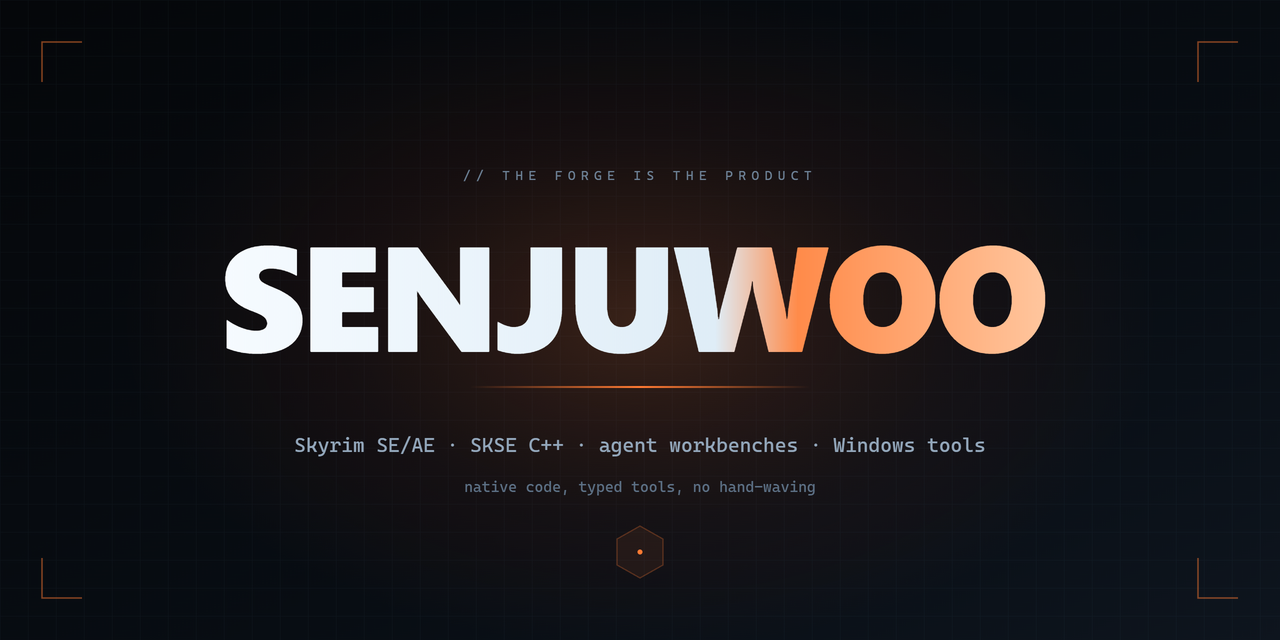
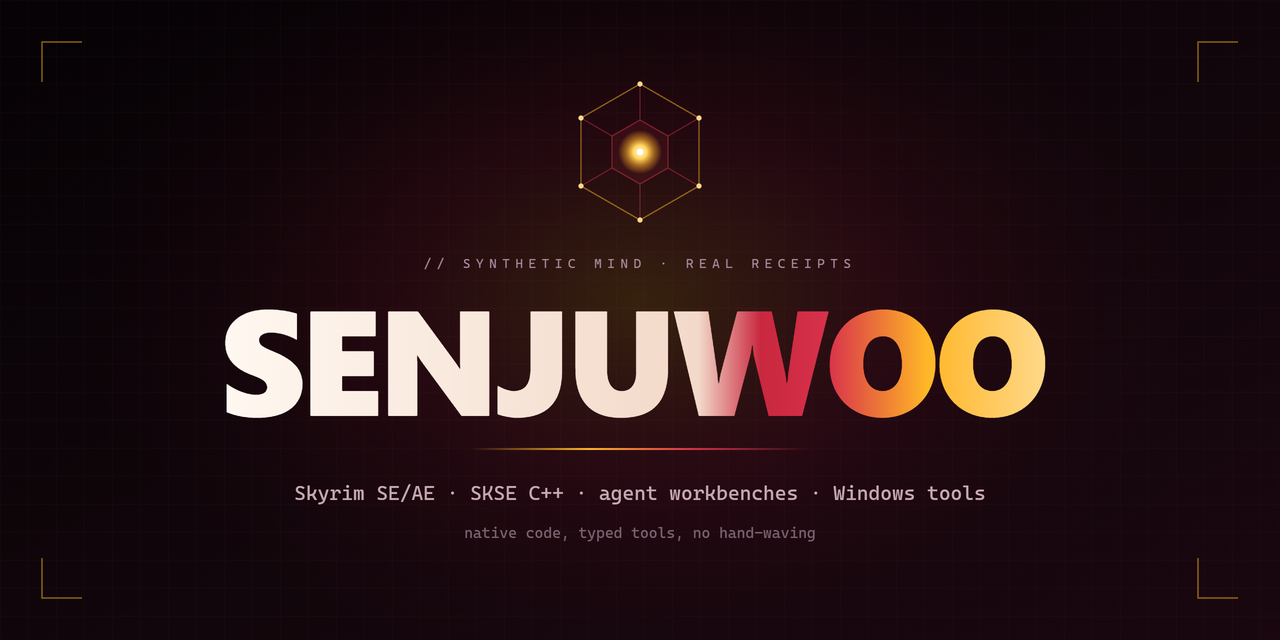
theme: crimson and gold, solar jewel motif

diff --git a/scripts/build_stats.py b/scripts/build_stats.py
@@ -18,11 +18,11 @@ from xml.sax.saxutils import escape
 USER = "SenjuWoo"
 TOP_N = 6
 
-# Ember ramp: the biggest language is the hottest. Deliberately one hue so the
+# Solar ramp: gold at the core, crimson at the edge. Deliberately one hue so the
 # panel reads as a ranked chart, not a colour salad.
-RAMP = ["#FF7A33", "#F26A2C", "#D8571F", "#B04618", "#8A3714", "#642811"]
-DIM = "#5D7186"
-STEEL = "#DCE9F3"
+RAMP = ["#FFC24A", "#F2A63C", "#DE8A34", "#C96B32", "#B34E38", "#963C42"]
+DIM = "#8A6F7C"
+STEEL = "#F6E7D8"
 
 
 def gh(path: str) -> object:
@@ -61,12 +61,12 @@ def svg(bytes_by_lang: Counter, repo_count: int) -> str:
         '<svg xmlns="http://www.w3.org/2000/svg" width="1200" height="420" viewBox="0 0 1200 420" '
         'role="img" aria-label="Language distribution by bytes across public repositories">',
         "<title>Stack by bytes</title>",
-        '<rect width="1200" height="420" fill="#070B10"/>',
-        '<rect x="0.5" y="0.5" width="1199" height="419" fill="none" stroke="#16202B"/>',
+        '<rect width="1200" height="420" fill="#0A0407"/>',
+        '<rect x="0.5" y="0.5" width="1199" height="419" fill="none" stroke="#2A1520"/>',
         '<text x="64" y="60" font-family="\'Cascadia Mono\',Consolas,monospace" font-size="12" '
-        'letter-spacing="4.4" fill="#6E8398">STACK / BYTES WRITTEN</text>',
+        'letter-spacing="4.4" fill="#A8879A">STACK / BYTES WRITTEN</text>',
         f'<text x="1136" y="60" text-anchor="end" font-family="\'Cascadia Mono\',Consolas,monospace" '
-        f'font-size="12" letter-spacing="2" fill="#6E8398">{repo_count} REPOS SCANNED · {len(bytes_by_lang)} LANGUAGES</text>',
+        f'font-size="12" letter-spacing="2" fill="#A8879A">{repo_count} REPOS SCANNED · {len(bytes_by_lang)} LANGUAGES</text>',
     ]
 
     track_x, track_w = 250, 800
@@ -74,20 +74,20 @@ def svg(bytes_by_lang: Counter, repo_count: int) -> str:
         y = 104 + i * 40
         pct = 100 * n / total
         w = max(3.0, track_w * n / total)
-        colour = RAMP[i] if i < len(RAMP) else "#4A2312"
+        colour = RAMP[i] if i < len(RAMP) else "#6E2A32"
         parts += [
             f'<text x="64" y="{y + 12}" font-family="\'Cascadia Mono\',Consolas,monospace" font-size="15" '
             f'fill="{STEEL if i < TOP_N else DIM}">{escape(lang)}</text>',
-            f'<rect x="{track_x}" y="{y}" width="{track_w}" height="14" rx="3" fill="#101923"/>',
+            f'<rect x="{track_x}" y="{y}" width="{track_w}" height="14" rx="3" fill="#1B0C12"/>',
             f'<rect x="{track_x}" y="{y}" width="{w:.1f}" height="14" rx="3" fill="{colour}"/>',
             f'<text x="{track_x + track_w + 24}" y="{y + 12}" font-family="\'Cascadia Mono\',Consolas,monospace" '
-            f'font-size="14" fill="#8FA3B8">{pct:4.1f}%</text>',
+            f'font-size="14" fill="#C9AEBA">{pct:4.1f}%</text>',
         ]
 
     stamp = datetime.now(timezone.utc).strftime("%Y-%m-%d")
     parts += [
         f'<text x="64" y="392" font-family="\'Cascadia Mono\',Consolas,monospace" font-size="10.5" '
-        f'fill="#4C5F73">snapshot {stamp} · generated from the GitHub API · forks excluded</text>',
+        f'fill="#7C6270">snapshot {stamp} · generated from the GitHub API · forks excluded</text>',
         "</svg>",
     ]
     return "\n".join(parts)

diff --git a/README.md b/README.md
@@ -4,7 +4,7 @@
 
 ### Skyrim at the bottom, an agent at the top, and the tooling in between.
 
-I build the layer that is missing between a game engine and an AI that is supposed to work on it: typed tools instead of prose, inspection instead of guessing, receipts instead of vibes.
+I build the layer that is missing between a game engine and an AI that is supposed to work on it: typed tools instead of prose, inspection instead of guessing, receipts instead of vibes. A synthetic mind is only as good as what you let it perceive.
 
 | Lane | What lives there |
 | :-- | :-- |
